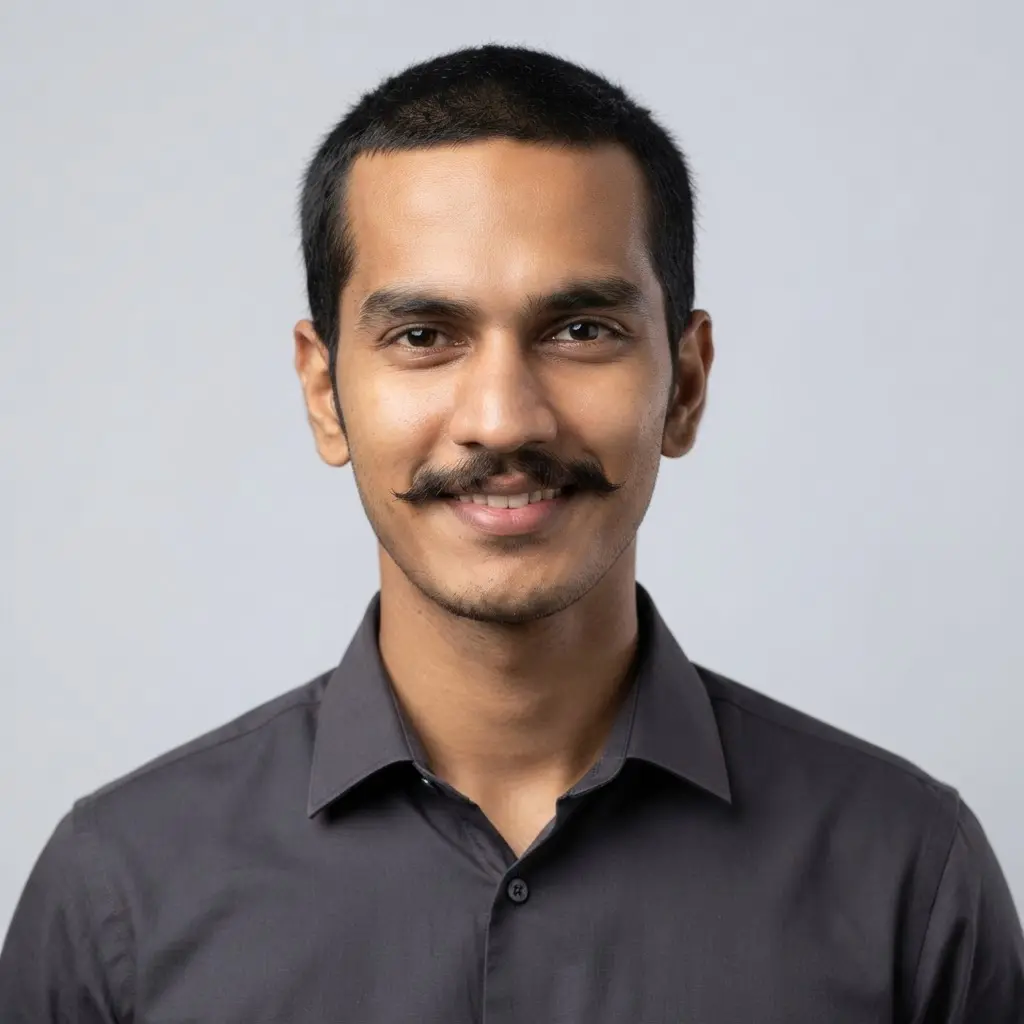
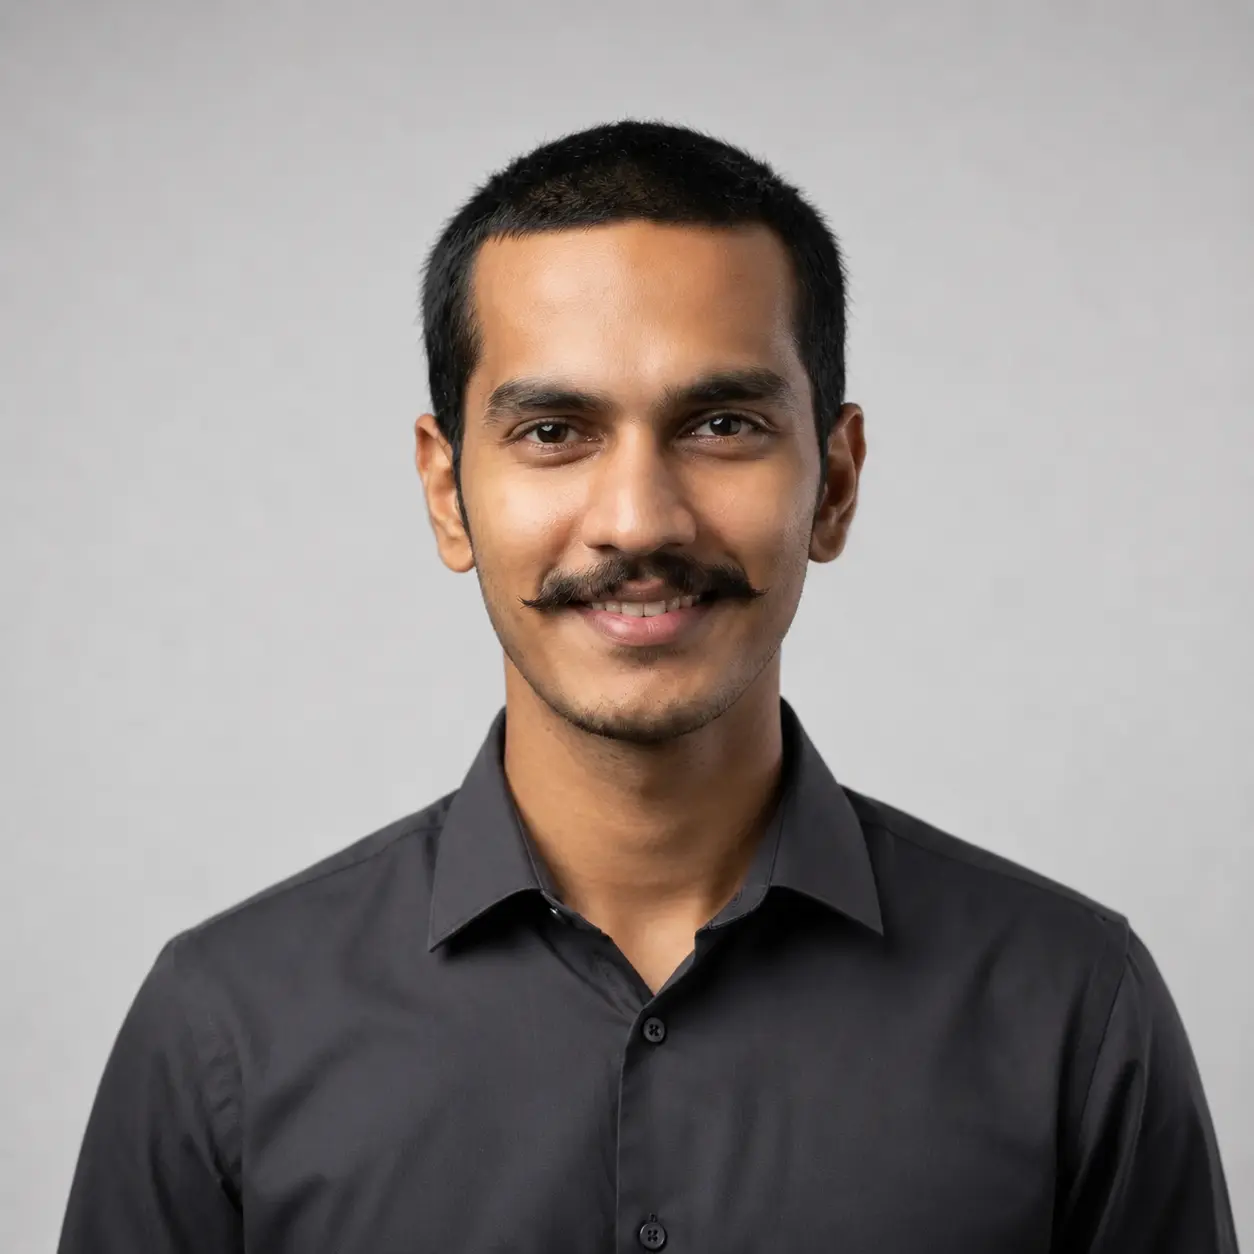
pics added

diff --git a/static/css/footer.css b/static/css/footer.css
@@ -297,3 +297,44 @@
         padding: 2.25rem 1.5rem;
     }
 }
+/* ==========================================
+   MOBILE FOOTER — HORIZONTAL NAVIGATION
+   ========================================== */
+@media (max-width: 576px) {
+
+    /* Keep navigation links on horizontal rows */
+    .footer-grid > .footer-links-col:not(.contact-col) {
+        display: flex;
+        flex-wrap: wrap;
+        align-items: center;
+        column-gap: 1.25rem;
+        row-gap: 0.65rem;
+    }
+
+    /* Navigation heading gets its own full row */
+    .footer-grid > .footer-links-col:not(.contact-col) h4 {
+        width: 100%;
+        margin: 0 0 0.35rem;
+    }
+
+    /* Remove the <br> after "Navigation" */
+    .footer-grid > .footer-links-col:not(.contact-col) br {
+        display: none;
+    }
+
+    /* Make navigation links compact horizontal items */
+    .footer-grid > .footer-links-col:not(.contact-col) a {
+        display: inline-flex;
+        align-items: center;
+        width: auto;
+        margin: 0;
+        padding: 0;
+        white-space: nowrap;
+    }
+
+    /* Keep the hover arrow from affecting the layout */
+    .footer-grid > .footer-links-col:not(.contact-col) .link-arrow {
+        margin-left: 5px;
+    }
+
+}

diff --git a/main.py b/main.py
@@ -157,8 +157,8 @@ def about():
         {
             'name': 'Areeba',
             'title': 'Team Leader',
-            'photo_path': 'images/team/team-1.webp',
-            'bio': '------',
+            'photo_path': 'images/team/kylie.webp',
+            'bio': 'Leading our team with a focus on precision, innovation, and delivering reliable engineering solutions that meet every project’s needs.',
         },
         {
             'name': 'Abdullah Fazal',
@@ -170,7 +170,7 @@ def about():
             'name': 'Hizbullah',
             'title': 'Sales Representative',
             'photo_path': 'images/team/Hizbullah.webp',
-            'bio': '------',
+            'bio': 'Building strong client relationships and connecting our engineering solutions with the right opportunities to drive lasting business growth.',
         },
     ]
     team = []
